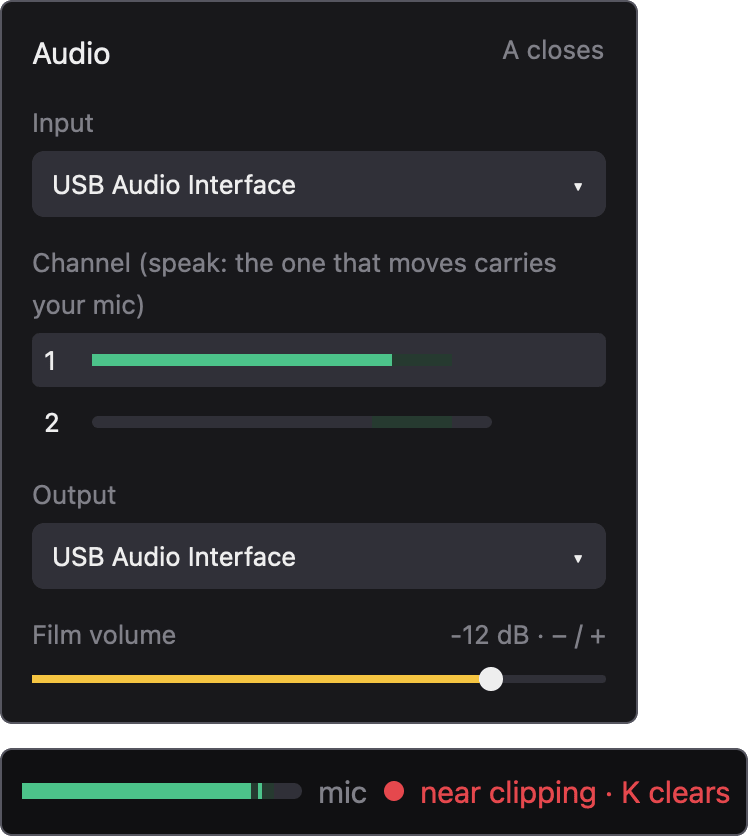
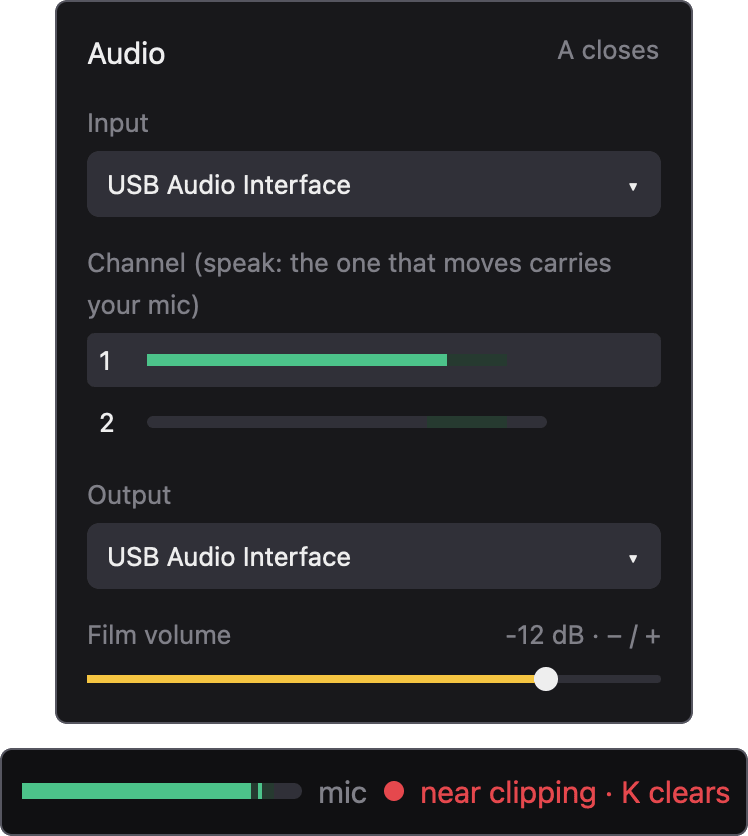
chore(screenshots): larger export type, centred cards, even setup steps
export.png's type is about twice its size, with the file and its
measurements on two rows, so it still reads at phone width; the audio
panel's two cards are centred; the room step is cropped as tall as the
voice step, so the two line up side by side.

diff --git a/crates/takewise/src/window/screenshots.rs b/crates/takewise/src/window/screenshots.rs
@@ -833,8 +833,7 @@ fn scale_of(image: &RgbaImage, window_width: f32) -> f32 {
     image.width() as f32 / window_width
 }
 
-/// `images` one below the other, left-aligned, `gap` pixels apart, on
-/// `fill`.
+/// `images` one below the other, centred, `gap` pixels apart, on `fill`.
 fn stack(images: &[RgbaImage], gap: u32, fill: image::Rgba<u8>) -> RgbaImage {
     let gaps = gap * u32::try_from(images.len().saturating_sub(1)).unwrap_or(0);
     let width = images.iter().map(RgbaImage::width).max().unwrap_or(0);
@@ -842,7 +841,8 @@ fn stack(images: &[RgbaImage], gap: u32, fill: image::Rgba<u8>) -> RgbaImage {
     let mut out = RgbaImage::from_pixel(width, height, fill);
     let mut y = 0;
     for image in images {
-        image::imageops::replace(&mut out, image, 0, i64::from(y));
+        let x = (width - image.width()) / 2;
+        image::imageops::replace(&mut out, image, i64::from(x), i64::from(y));
         y += image.height() + gap;
     }
     out
@@ -998,7 +998,8 @@ async fn setup_check(demo: &Demo, out: &Path, cx: &mut AsyncApp) -> Result<(), S
     )?;
     write_png(
         &out.join("setup-room.png"),
-        &framed(&crop(&room, WINDOW.0, (x, 0.0, 380.0, 168.0)), scale),
+        // As tall as the voice step, so the two line up side by side.
+        &framed(&crop(&room, WINDOW.0, (x, 0.0, 380.0, 236.0)), scale),
     )
 }
 
@@ -1025,8 +1026,8 @@ async fn audio_panel(demo: &Demo, out: &Path, cx: &mut AsyncApp) -> Result<(), S
     let image = shot.render(cx).await?;
     shot.close(cx);
     // The panel (between the film and the side column) down to the film
-    // volume, and the meter row under the film: two cards, left-aligned,
-    // each as wide as what it holds.
+    // volume, and the meter row under the film: two cards, centred, each
+    // as wide as what it holds.
     let scale = scale_of(&image, WINDOW.0);
     let panel = crop(
         &image,
@@ -1511,9 +1512,11 @@ fn agent_session(demo: &Demo, work: &Path) -> Result<PathBuf, String> {
 /// The narration the agent exported, drawn as one strip as long as the
 /// film, each line's id where the manifest places its take.
 async fn export_strip(project: &Path, out: &Path, cx: &mut AsyncApp) -> Result<(), String> {
-    const SIZE: (f32, f32) = (830.0, 206.0);
+    // Type about twice the window's, so the strip still reads when a
+    // phone shows it about 324 px wide.
+    const SIZE: (f32, f32) = (830.0, 310.0);
     const PAD: f32 = 20.0;
-    const WAVE_H: f32 = 84.0;
+    const WAVE_H: f32 = 96.0;
     /// Drawn at this many pixels per logical pixel; GPUI scales it.
     const WAVE_SCALE: f32 = 2.0;
     let export = project.join("export");
@@ -1643,7 +1646,7 @@ impl gpui_kit::Render for Strip {
                 .children(items.iter().map(|(text, x)| {
                     let label = div().absolute().top(px(0.)).whitespace_nowrap();
                     // A label at the very end ends there instead.
-                    let label = if *x > self.inner - 40.0 {
+                    let label = if *x > self.inner - 70.0 {
                         label.right(px(0.))
                     } else {
                         label.left(px(*x))
@@ -1666,24 +1669,24 @@ impl gpui_kit::Render for Strip {
                 div()
                     .flex()
                     .flex_none()
-                    .flex_row()
-                    .justify_between()
-                    .pb(px(6.))
-                    .child(div().text_size(px(15.)).child(self.title.clone()))
+                    .flex_col()
+                    .gap(px(2.))
+                    .pb(px(8.))
+                    .child(div().text_size(px(30.)).child(self.title.clone()))
                     .child(
                         div()
-                            .text_size(px(13.))
+                            .text_size(px(24.))
                             .text_color(rgb(super::colors::DIM))
                             .child(self.detail.clone()),
                     ),
             )
-            .child(row(18.0, &self.labels, super::colors::TEXT, 13.0))
+            .child(row(32.0, &self.labels, super::colors::TEXT, 24.0))
             .child(
                 img(self.wave.clone())
                     .flex_none()
                     .w(px(self.inner))
                     .h(px(self.wave_h)),
             )
-            .child(row(16.0, &self.ticks, super::colors::DIM, 11.0))
+            .child(row(28.0, &self.ticks, super::colors::DIM, 22.0))
     }
 }
